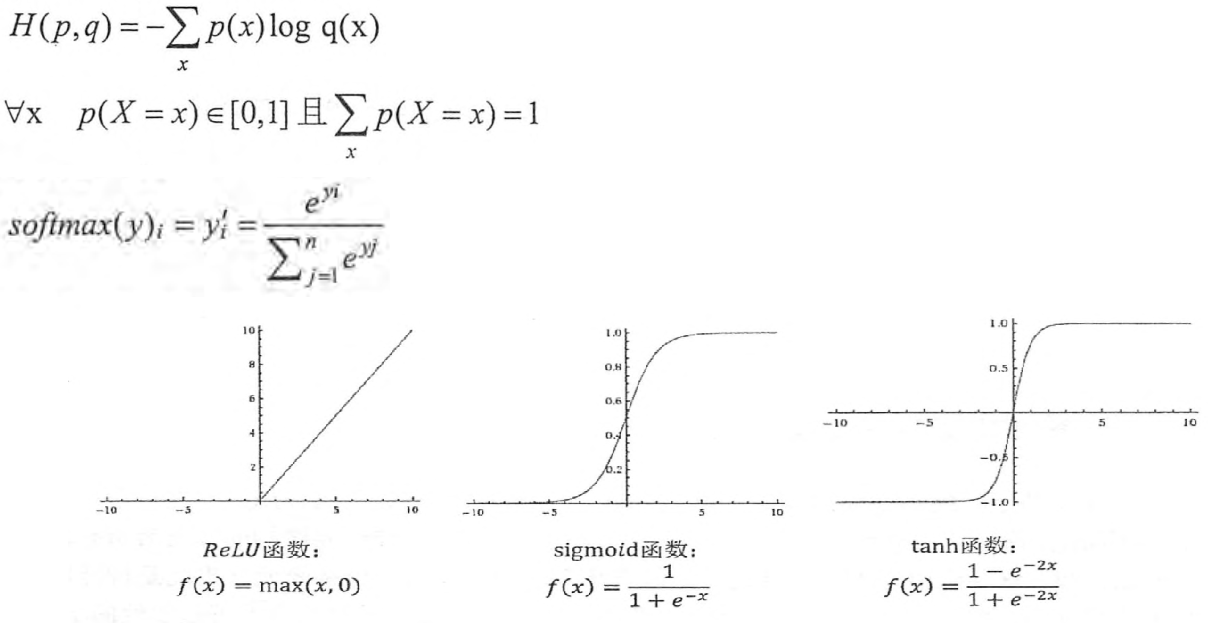
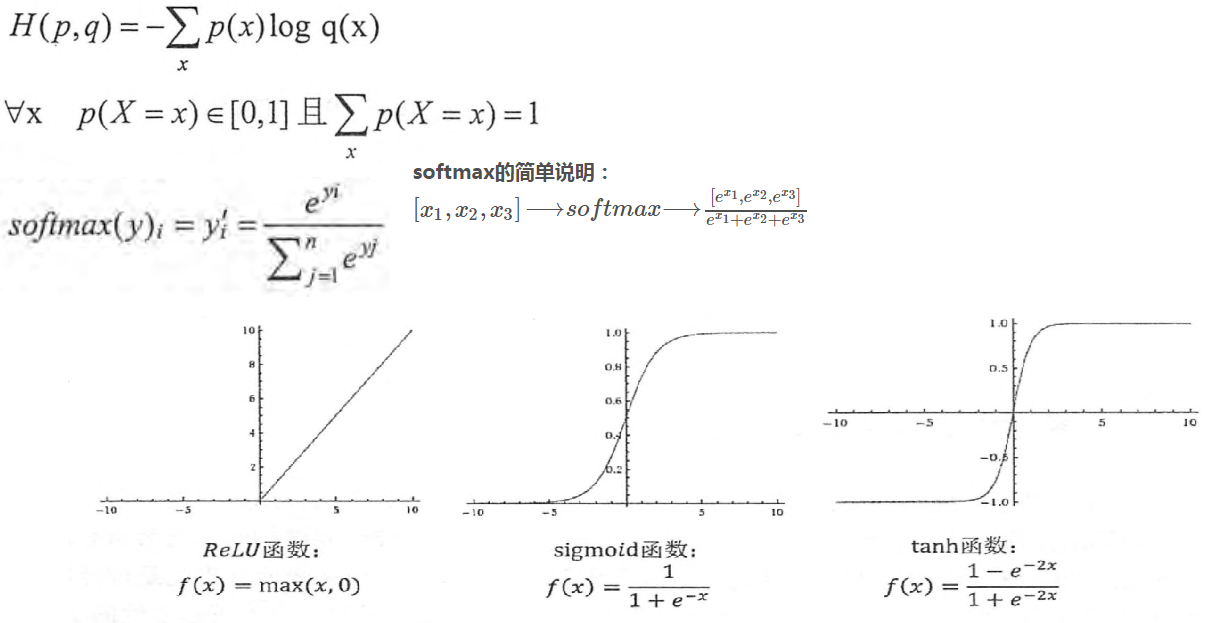
tensorflow

Changed region(s): [[0.3369, 0.244, 0.5513, 0.366], [0.582, 0.305, 0.6738, 0.366], [0.3369, 0.3355, 0.4288, 0.366]]

diff --git a/program/python/04.tensorflow/08.循环神经网络RNN/8.1循环神经网络简介RNN/8.1.1RNN入门例子.md b/program/python/04.tensorflow/08.循环神经网络RNN/8.1循环神经网络简介RNN/8.1.1RNN入门例子.md
@@ -1,0 +1,102 @@
+
+
+```py
+import tensorflow as tf
+
+from tensorflow.examples.tutorials.mnist import input_data
+mnist = input_data.read_data_sets("./", one_hot=True)
+
+# Hyperparameters
+learning_rate = 1e-3
+training_steps = 2500
+batch_size = 100
+display_step = 100
+
+def evaluate(logits):
+    # Define loss and optimizer
+    # 损失函数
+    loss_op = tf.reduce_mean(
+        tf.nn.softmax_cross_entropy_with_logits(logits=logits,
+                                                labels=Y))
+    train_op = tf.train.AdamOptimizer(
+        learning_rate=learning_rate).minimize(loss_op)
+    
+    # Define prediction and accuracy
+    # 优化损失函数
+    prediction = tf.nn.softmax(logits)
+    correct_pred = tf.equal(tf.argmax(prediction, 1), tf.argmax(Y, 1))
+    accuracy = tf.reduce_mean(tf.cast(correct_pred, tf.float32))
+
+    # start session to evaluate
+    with tf.Session() as sess:
+        sess.run(tf.global_variables_initializer())
+        for step in range(1, training_steps + 1):
+            batch_x, batch_y = mnist.train.next_batch(
+                batch_size)
+            sess.run(train_op, feed_dict={X: batch_x,
+                                          Y: batch_y})
+            if step % display_step == 0 or step == 1:
+                loss, acc = sess.run([loss_op, accuracy], feed_dict={X: batch_x,
+                                                                     Y: batch_y})
+                print("Step " + str(step) + ", Minibatch Loss= " + \
+                      "{:.4f}".format(loss) + ", Training Accuracy= " + \
+                      "{:.3f}".format(acc))
+        print("Optimization Finished!")
+        # Evaluate result in test set
+        test_data = mnist.test.images
+        test_label = mnist.test.labels
+        print("Testing Accuracy:", sess.run(accuracy, feed_dict={X: test_data, Y: test_label}))
+
+num_input = 28     # img shape: 28*28
+seq_steps = 28     # think about pass one column each seq
+num_neurons = 128  # hidden layer num of features
+num_classes = 10   # MNIST total classes (0-9 digits)
+tf.reset_default_graph()
+# input
+X = tf.placeholder("float", [None, seq_steps * num_input])
+# labels
+Y = tf.placeholder("float", [None, num_classes])
+
+# Define weights and biases for input and output layers
+weights = {
+    'in': tf.Variable(tf.random_normal([num_input, num_neurons])),
+    'out': tf.Variable(tf.random_normal([num_neurons, num_classes]))
+}
+biases = {
+    'in': tf.Variable(tf.random_normal([num_neurons])),
+    'out': tf.Variable(tf.random_normal([num_classes]))
+}
+
+def RNN(rnn_cell):
+    # convert from 1x764 to 28x28
+    image_2d = tf.reshape(X, [-1, num_input])
+    input_layer = tf.reshape(image_2d,  [-1, seq_steps, num_input])
+    outputs, final_state = tf.nn.dynamic_rnn(cell=rnn_cell,
+                                             inputs=input_layer,
+                                             dtype=tf.float32)
+
+    # We only care output of last sequence which is 2nd dimension in outputs!
+    # the following two lines are the same.
+    #return tf.matmul(outputs[:, -1, :], weights['out']) + biases['out'], outputs, final_state
+    return tf.matmul(final_state, weights['out']) + biases['out'], outputs, final_state
+
+# Evaluate with Basic RNN Cell
+basic_rnn_tanh = tf.contrib.rnn.BasicRNNCell(num_neurons, activation=tf.nn.tanh)
+logit, outputs, state = RNN(basic_rnn_tanh)
+test_data = mnist.test.images
+test_label = mnist.test.labels
+with tf.Session() as sess:
+    
+    sess.run(tf.global_variables_initializer())
+    s, o=sess.run([state, outputs], feed_dict={X: test_data, Y: test_label})
+    #print(s.shape, o.shape)
+    #print(s[0], o[0][-1]) # they are same
+evaluate(logit)
+
+# Try with LSTM Cell
+#evaluate(RNN(tf.contrib.rnn.BasicLSTMCell(num_neurons)))
+```
+
+## 参考
+
+1. 5.2.1TensorFlow训练神经网络

diff --git a/program/python/04.tensorflow/04.深层神经网络DNN/4.2损失数定义/4.2.1经典损失函数.md b/program/python/04.tensorflow/04.深层神经网络DNN/4.2损失数定义/4.2.1经典损失函数.md
@@ -15,10 +15,56 @@
 
 ## 3. Softmax
 
-* softmax
+![softmax.png](softmax.png)
+
+1. softmax
     1. Softmax回归将神经网络前向传播得到的结果变成概率分布
     2. 原始神经网络的输出被用作置信度来生成新的输出
     3. 交叉熵函数不是对称的：H(p,q)≠H(q,p)，刻画的是通过概率分布q来表达概率分布p的困难程度
+2. tf.nn.softmax()：softmax计算
+```py
+# -*- coding: utf-8 -*-
+import tensorflow as tf
+A = [1.0,2.0,3.0,4.0,5.0,6.0]
+with tf.Session() as sess:
+    print (sess.run(tf.nn.softmax(A)))
+# [ 0.00426978  0.01160646  0.03154963  0.08576079  0.23312201  0.63369131]
+# 其中所有输出的和为1.
+### 等价于以下numpy实现
+import numpy as np
+aa = np.array([0.1,0.2,0.3])
+c = np.exp(aa) / np.sum(np.exp(aa), 0)
+print(c)
+# [ 0.30060961  0.33222499  0.3671654 ]
+```
+3. 多类别softmax with交叉熵
+    1. tf.nn.softmax_cross_entropy_with_logits && softmax_cross_entropy_with_logits_v2
+    2. tensorflow将交叉熵和softmax回归统一封装
+    3. cross_entropy = tf.nn.softmax_cross_entropy_with_logits(y, y_)
+        1. y_代表标准答案，y代表输出结果
+    4. softmax_cross_entropy_with_logits_v2: softmax + 多类别cross-entropy 
+```py
+a  = tf.constant([[0.1, 0.2, 0.3]],dtype=tf.float32)
+label = tf.constant([[0, 0, 1]],dtype=tf.float32)
+b = tf.nn.softmax_cross_entropy_with_logits_v2(logits=a, labels=label)
+
+with tf.Session() as sess:
+    print(sess.run(b)) # [ 1.00194287]
+    print(sess.run(tf.reduce_sum(b))) # 1.00194
+### 等价于以下numpy实现: softmax(predictions) + cross_entropy
+import numpy as np
+def softmax(logits):
+    return np.exp(logits)/np.sum(np.exp(logits))
+
+def cross_entropy(label, prediction_softmax):
+    result = np.sum(-1*np.log(prediction_softmax)*label)
+    return result
+
+prediction = np.array([[0.1, 0.2, 0.3]], dtype=np.float32)
+label = np.array([[0, 0, 1]],dtype=np.float32)
+c = cross_entropy(label, softmax(prediction))
+print(c) # 1.00194
+```
 
 ## 4. 三分类问题
 
@@ -39,13 +85,6 @@
     5. 通过上面3个运算，完成交叉熵`p(x)logq(x)`的计算
     6. 结果是n*m的二维矩阵，n为一个batch中样例的数量，m为分类的类别数量
 
-## 6. tf.nn.softmax_cross_entropy_with_logits函数
-
-* tf.nn.softmax_cross_entropy_with_logits函数
-    1. tensorflow将交叉熵和softmax回归统一封装
-    2. cross_entropy = tf.nn.softmax_cross_entropy_with_logits(y, y_)
-        1. y_代表标准答案，y代表输出结果
-
 ## 7. 回归问题
 
 * 回归问题
@@ -56,3 +95,6 @@
     1. 均方误差MSE, mean squared error
     2. mse = tf.reduce_mean(tf.square(y_ - y))
 
+## 参考
+
+1. [softmax](https://blog.csdn.net/caomin1hao/article/details/80587327)

diff --git a/program/python/04.tensorflow/08.循环神经网络RNN/8.1循环神经网络简介RNN/8.1.0循环神经网络简介RNN.md b/program/python/04.tensorflow/08.循环神经网络RNN/8.1循环神经网络简介RNN/8.1.0循环神经网络简介RNN.md
@@ -62,6 +62,29 @@ for i in range(len(X)):
     print "output: ", final_output
 ```
 
+### 7.1 np.dot
+
+![np.dot.png](np.dot.png)
+
+```py
+import numpy
+a = numpy.array([[1,2],
+                 [3,4]])
+b = numpy.array([[5,6],
+                 [7,8]])
+a*b
+# >>>array([[ 5, 12],
+#           [21, 32]])
+a.dot(b)
+# >>>array([[19, 22],
+#           [43, 50]])
+numpy.dot(a,b)
+# >>>array([[19, 22],
+#           [43, 50]])
+numpy.dot(b,a)
+# >>>array([[23, 34],
+#           [31, 46]])
+```
 
 ## 8. 序列过长
 
@@ -160,3 +183,5 @@ with tf.Session() as sess:
 1. [static_rnn使用详解](https://blog.csdn.net/u013230189/article/details/82804316)
 2. [tensorflow tf.stack tf.unstack 实例](https://blog.csdn.net/guotong1988/article/details/73913520)
 3. [tf.unstack讲解](https://blog.csdn.net/qq_32806793/article/details/85223906)
+4. [numpy中矩阵乘法，星乘(*)和点乘(.dot)的区别](https://blog.csdn.net/like4501/article/details/79753346)
+5. [使用Tensorflow实现简单的RNN](https://www.jianshu.com/p/b38760250281)
